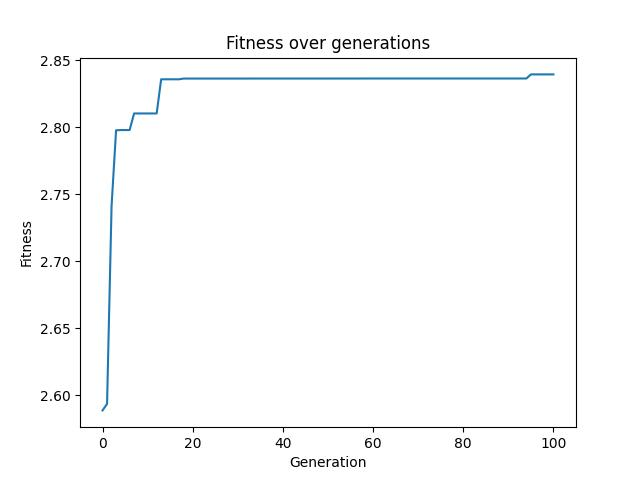
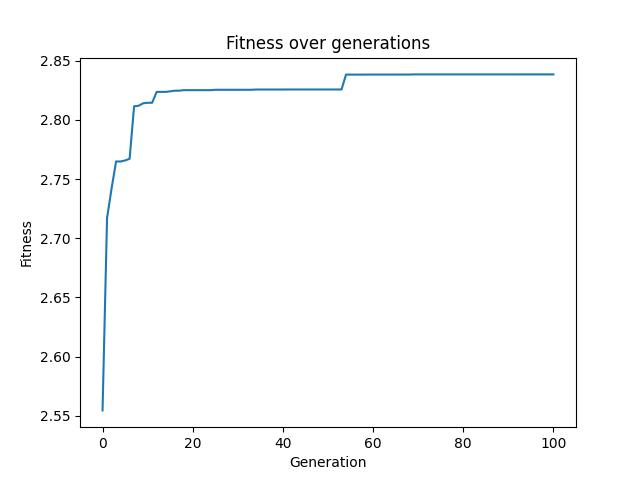
Lab 8 ex1 finished and refactored

diff --git a/Lab8/ex1_directory/ex1.py b/Lab8/ex1_directory/ex1.py
@@ -2,7 +2,9 @@ import numpy as np
 import pygad
 import time
 
-# Dane problemu
+from matplotlib import pyplot as plt
+
+# Data for the problem
 items_dict = [
     {"name": "zegar", "value": 100, "weight": 7},
     {"name": "obraz-pejzaż", "value": 300, "weight": 7},
@@ -18,39 +20,43 @@ items_dict = [
 ]
 max_capacity = 25
 
-
-# Funkcja fitness
+# Fitness function
 def fitness_func(model, solution, solution_idx):
     total_weight = 0
     total_value = 0
 
-    for solution_idx, item in enumerate(items_dict):
-        if solution[solution_idx] == 1:
-            total_value += item['value']
-            total_weight += item['weight']
+    for idx, item in enumerate(items_dict):
+        if solution[idx] == 1:
+            total_value += item["value"]
+            total_weight += item["weight"]
 
-    return total_value  # Zwracamy wartość jako fitness
+    # Give penalty for exceeding the capacity limit
+    if total_weight > max_capacity:
+        return 0
+    return total_value
 
-# Parametry algorytmu genetycznego
+# Genetic Algorithm parameters
 sol_per_pop = 100
 num_genes = len(items_dict)
 num_parents_mating = 5
-num_generations = 100  # Zwiększenie liczby pokoleń
+num_generations = 100  # Number of generations
 keep_parents = 2
 parent_selection_type = "sss"
 crossover_type = "single_point"
 mutation_type = "random"
-mutation_percent_genes = 80
-# Lista przechowująca wyniki wartości przedmiotów
+mutation_percent_genes = 10  # Lower mutation rate to prevent excessive randomness
+
+# List to store the value results
 best_solutions_values = []
 
-# Licznik udanych prób
+# Counter for successful attempts
 successful_attempts = 0
 total_time = 0
+plot_counter = 0
 
-# Pętla do 10 testów
+# Run the GA 10 times to measure success rate and average time
 for i in range(10):
-    start = time.time()  # Start pomiaru czasu
+    start = time.time()  # Start time measurement
 
     ga_instance = pygad.GA(num_generations=num_generations,
                            num_parents_mating=num_parents_mating,
@@ -61,35 +67,44 @@ for i in range(10):
                            keep_parents=keep_parents,
                            crossover_type=crossover_type,
                            mutation_type=mutation_type,
-                           mutation_percent_genes=mutation_percent_genes
-                           )
+                           mutation_percent_genes=mutation_percent_genes,
+                           gene_space=[0, 1])
 
-    # Uruchomienie algorytmu
+    # Run the GA
     ga_instance.run()
 
-    # Zakończenie pomiaru czasu
+    # End time measurement
     end = time.time()
     elapsed_time = end - start
     total_time += elapsed_time
 
-    # Podsumowanie
+    # Summary
     solution, solution_fitness, solution_idx = ga_instance.best_solution()
     best_solutions_values.append((solution, solution_fitness))
-
     print("Parameters of the best solution : {solution}".format(solution=solution))
     print("Fitness value of the best solution = {solution_fitness}".format(solution_fitness=solution_fitness))
-    # ga_instance.plot_fitness()
 
-    # Sprawdzenie czy znaleziono najlepsze rozwiązanie
+
+    # Check if the solution is the optimal one
     if solution_fitness == 1630 or solution_fitness >= 1000:
         successful_attempts += 1
 
-# e) Skuteczność algorytmu
+    # Show and save the plot
+    plt.plot(ga_instance.best_solutions_fitness)
+    plt.title("Fitness over generations")
+    plt.xlabel("Generation")
+    plt.ylabel("Fitness")
+    plt.savefig(f"plots/ex1_plot{plot_counter}.jpg")
+    plt.show()
+
+    # Increment plot counter for plot images
+    plot_counter += 1
+
+# e) Success rate of the algorithm
 success_rate = successful_attempts / 10 * 100
 
-# f) Średni czas działania algorytmu
+# f) Average runtime of the algorithm
 average_time = total_time / 10
 
-print("\nSkuteczność algorytmu: {}%".format(success_rate))
-print("Średni czas działania algorytmu: {:.6f} sekund".format(average_time))
-
+print(f"\nSuccess rate of the algorithm: {success_rate}%")
+print(f"Average runtime of the algorithm: {average_time:.6f} seconds")

diff --git a/Lab8/partition_ga 1.py b/Lab8/partition_ga 1.py
@@ -66,7 +66,7 @@ print("Fitness value of the best solution = {solution_fitness}".format(solution_
 
 #tutaj dodatkowo wyswietlamy sume wskazana przez jedynki
 prediction = numpy.sum(S*solution)
-print("Predicted output based on the best solution : {prediction}".format(prediction=prediction))
+print("Predicted output_images based on the best solution : {prediction}".format(prediction=prediction))
 
 #wyswietlenie wykresu: jak zmieniala sie ocena na przestrzeni pokolen
 ga_instance.plot_fitness()
